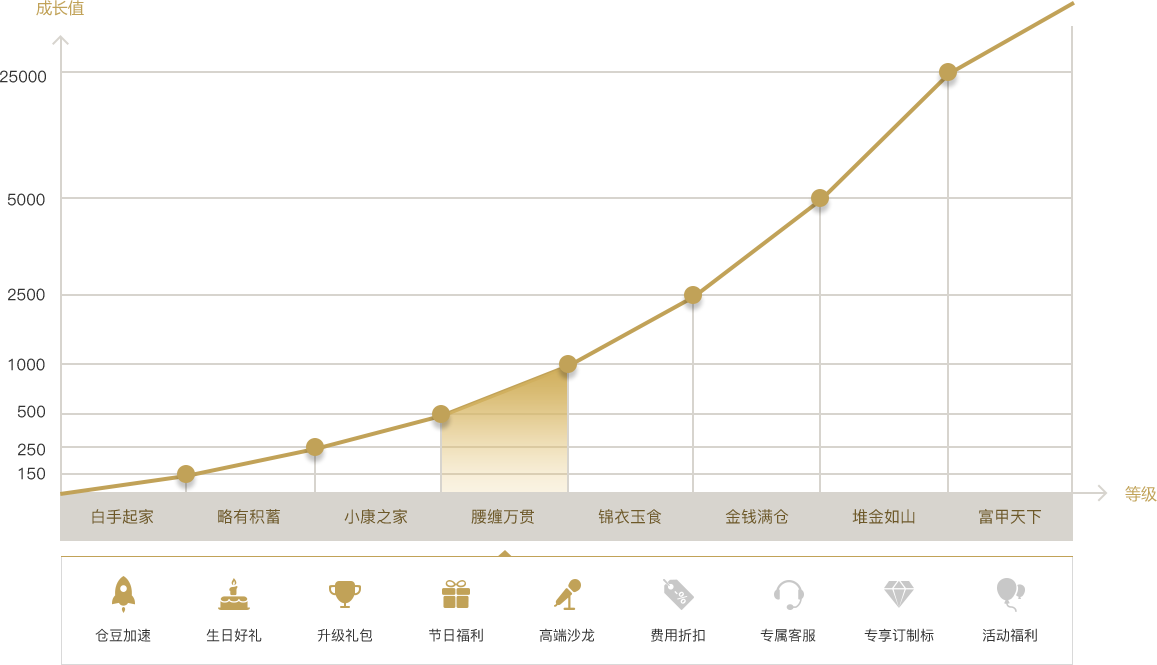
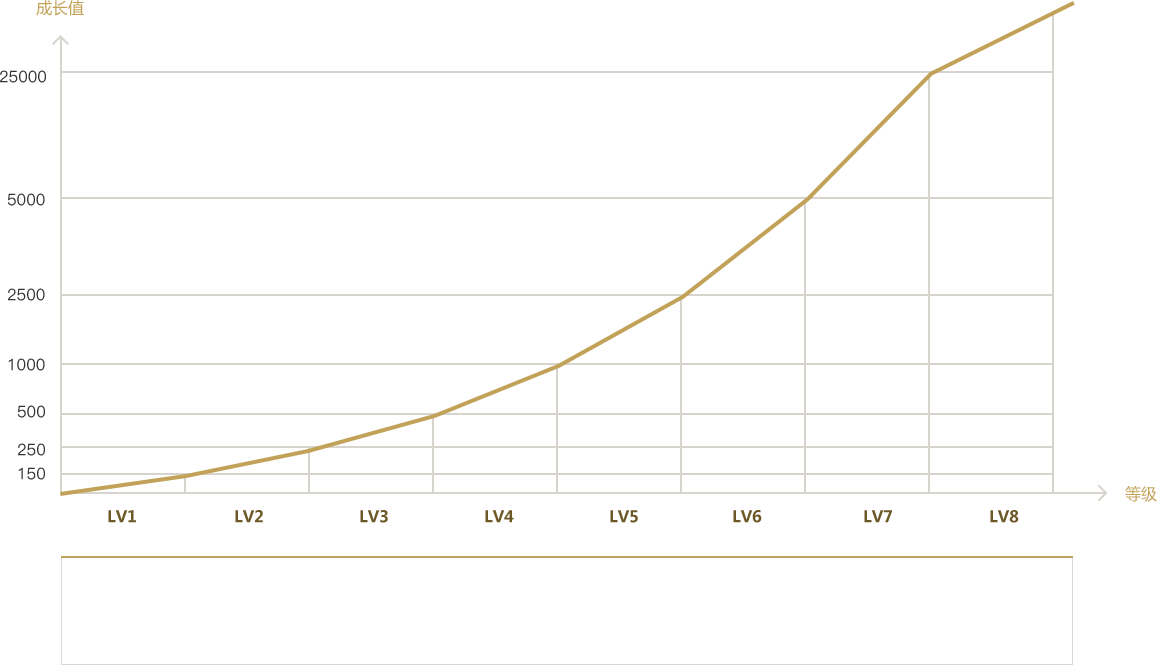
Wen.J

diff --git a/src/components/homeVip/homeVip.vue b/src/components/homeVip/homeVip.vue
@@ -9,8 +9,18 @@
           <span class="icon-Diamond-1"></span>
           等级与权益
         </div>
+        <!-- 图形 -->
         <div class="grade-course">
-
+          <img src="./grad-circle.png" width="770" height="430" alt="" class="grad-circle">
+          <div class="grad-shadow">
+            <div class="grad-LV-shadow" :class="['shadow-LV' + dynamic.level]"></div>
+          </div>
+          <div class="grade-award">
+            <div class="grade-award-item" v-for="(item,index) in  gradeAward">
+              <span data-v-7f04ebfa="" :class="[item.class,index <= award-1?'awardLight':'']"></span>
+              <p>{{item.content}}</p>
+            </div>
+          </div>
         </div>
       </div>
     </div>
@@ -105,9 +115,23 @@
   import {mapActions} from 'vuex';
   import {mapState} from 'vuex';
   import  bannerVip from  '@/components/bannerVip/bannerVip'
+  const CLS_LIGHT = "haveAward";
+  const LENGTH = 9;
   export default{
     data(){
       return {
+        award: 4, //会员获得权益个数
+        gradeAward:[
+          {class:'icon-rockets',content:'仓豆加速'},
+          {class:'icon-cake',content:'生日好礼'},
+          {class:'icon-cup',content:'升级礼包'},
+          {class:'icon-gift',content:'节日福利'},
+          {class:'icon-microphone',content:'高端沙龙'},
+          {class:'icon-discount',content:'费率折扣'},
+          {class:'icon-customer-service',content:'专属客服'},
+          {class:'icon-Diamond-2',content:'专享订制标'},
+          {class:'icon-balloon',content:'活动福利'},
+        ],
         growUp:[
           {src: '../../../static/img/growUpTask/growUpTask-1.png',taskName: '新手任务',taskAward:'100'},
           {src: '../../../static/img/growUpTask/growUpTask-2.png',taskName: '互动任务',taskAward:'100'},
@@ -116,6 +140,19 @@
         ],
         beanMall: [],
       }
+    },
+    methods: {
+      //从本地获取userInfo
+      getInfo: function () {
+        if (this.userInfo) {
+          this.$store.dispatch('get_userInfo_dynamic', {user_id: this.userInfo.user_id})
+        }
+      }
+    },
+    computed: {
+      ...mapState([
+        'userInfo', 'success', 'dynamic', 'noLogged'
+      ]),
     },
     created(){
       this.$http.get('/cjx/commodity/showCenterList.do').then(response => {

diff --git a/src/components/bannerVip/bannerVip.vue b/src/components/bannerVip/bannerVip.vue
@@ -169,7 +169,6 @@
           spaceBetween: 10,
         },
         badgeType: false,
-        grade: 3,
         hasCrown: false,
         cards: [
           {
@@ -257,7 +256,7 @@
     computed: {
       badgeLight() {
         let result = [];
-        for (let i = 0; i < this.grade; i++) {
+        for (let i = 0; i < this.dynamic.level; i++) {
           result.push(CLS_Light);
         }
         while (result.length < LENGTH) {
@@ -274,7 +273,7 @@
       },
       ...mapState([
         'userInfo', 'success', 'dynamic', 'noLogged'
-      ])
+      ]),
     },
     created(){
       this.getInfo();
